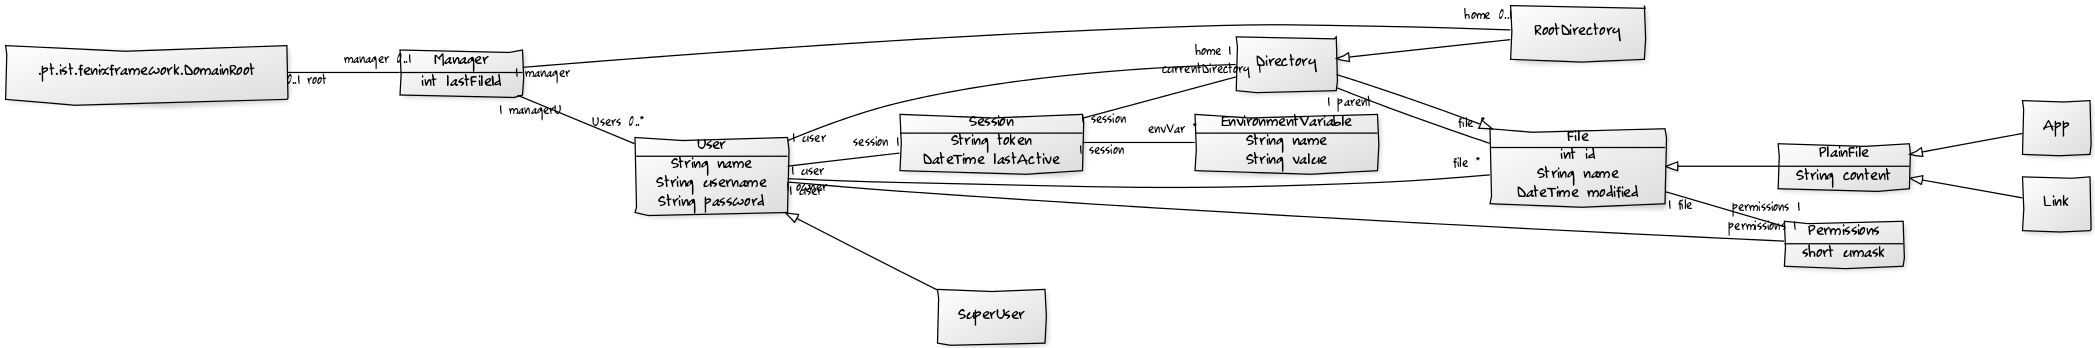
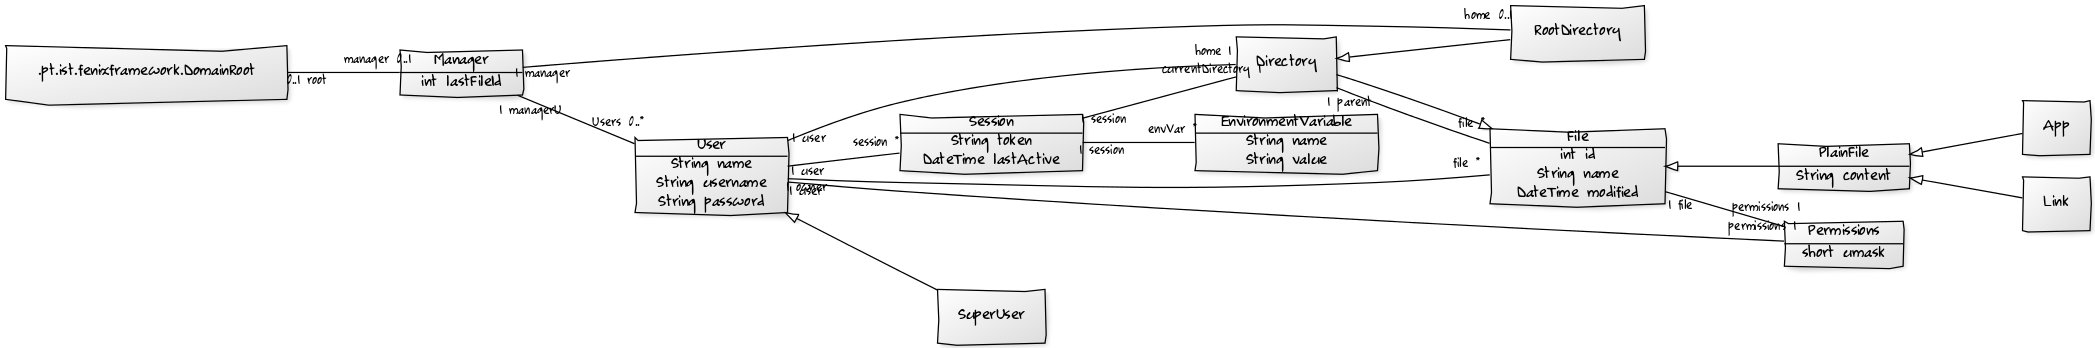
Now users can have multiple Sessions

diff --git a/src/main/java/pt/tecnico/myDrive/domain/User.java b/src/main/java/pt/tecnico/myDrive/domain/User.java
@@ -219,7 +219,7 @@ public class User extends User_Base {
         		link = link.substring(0, link.length() -1);
     	}
         if (link.equals("session")){
-        	return getSession().getCurrentDirectory();
+        	return getValidSession().getCurrentDirectory();
         }
         String[] split = link.split("/",2);
         String init = split[0];
@@ -228,7 +228,7 @@ public class User extends User_Base {
             	return Manager.getInstance().getHome().getFileByPath(rest);
         }
         else if (link.startsWith("session/")){
-            	return getSession().getCurrentDirectory().getFileByPath(rest);
+            	return getValidSession().getCurrentDirectory().getFileByPath(rest);
         }
         throw new FileNotFoundException(link);
     }
@@ -255,6 +255,15 @@ public class User extends User_Base {
     public String getFileContentByLink(Link link){     
         File pf = getFileByPath(link.getContent());
         return pf.getContent();
+    }
+
+
+    public Session getValidSession() {
+        for (Session s: getSessionSet()) {
+            if (!s.hasExpired())
+                return s;
+        }
+        return null;
     }
 
     /**

diff --git a/src/main/java/pt/tecnico/myDrive/domain/Manager.java b/src/main/java/pt/tecnico/myDrive/domain/Manager.java
@@ -166,8 +166,10 @@ public class Manager extends Manager_Base{
      */
     public Session getSessionByToken(String token) {
         for(User u : getUsersSet()) {
-            if (u.getSession().getToken().equals(token))
-                return  u.getSession();
+            for (Session s: u.getSessionSet()) {
+                if (s.getToken().equals(token))
+                    return s;
+            }
         }
         return null;
     }
@@ -179,8 +181,10 @@ public class Manager extends Manager_Base{
      */
     public User getUserByToken(String token) {
         for(User u : getUsersSet()) {
-            if (u.getSession().getToken().equals(token))
-                return u;
+            for (Session s: u.getSessionSet()) {
+                if (s.getToken().equals(token))
+                    return u;
+            }
         }
         return null;
     }

diff --git a/src/main/java/pt/tecnico/myDrive/service/dto/FileDto.java b/src/main/java/pt/tecnico/myDrive/service/dto/FileDto.java
@@ -12,6 +12,15 @@ public class FileDto implements Comparable<FileDto> {
     private String _parent;
     private String _owner;
 
+    /**
+     * Construtor to FileDto
+     * @param id (int) receives the id of the file.
+     * @param name (String) receives the name of the file.
+     * @param modified (DateTime) receives the date of the file.
+     * @param umask (Short) receives the permission mask of the file.
+     * @param parent (String) receives the name of the parent directory.
+     * @param owner (String) receives the owner name of the file.
+     */
     public FileDto(int id,
                    String name,
                    DateTime modified,

diff --git a/src/test/java/pt/tecnico/myDrive/service/ListDirectoryTest.java b/src/test/java/pt/tecnico/myDrive/service/ListDirectoryTest.java
@@ -54,7 +54,7 @@ public class ListDirectoryTest extends BaseServiceTest {
     @Test
     public void sortedDirectory() {
         Directory d = (Directory) _user.getFileByPath("/home");
-        _user.getSession().setCurrentDirectory(d);
+        Manager.getInstance().getSessionByToken(_token).setCurrentDirectory(d);
         ListDirectory service = new ListDirectory(_token);
         service.execute();
 
